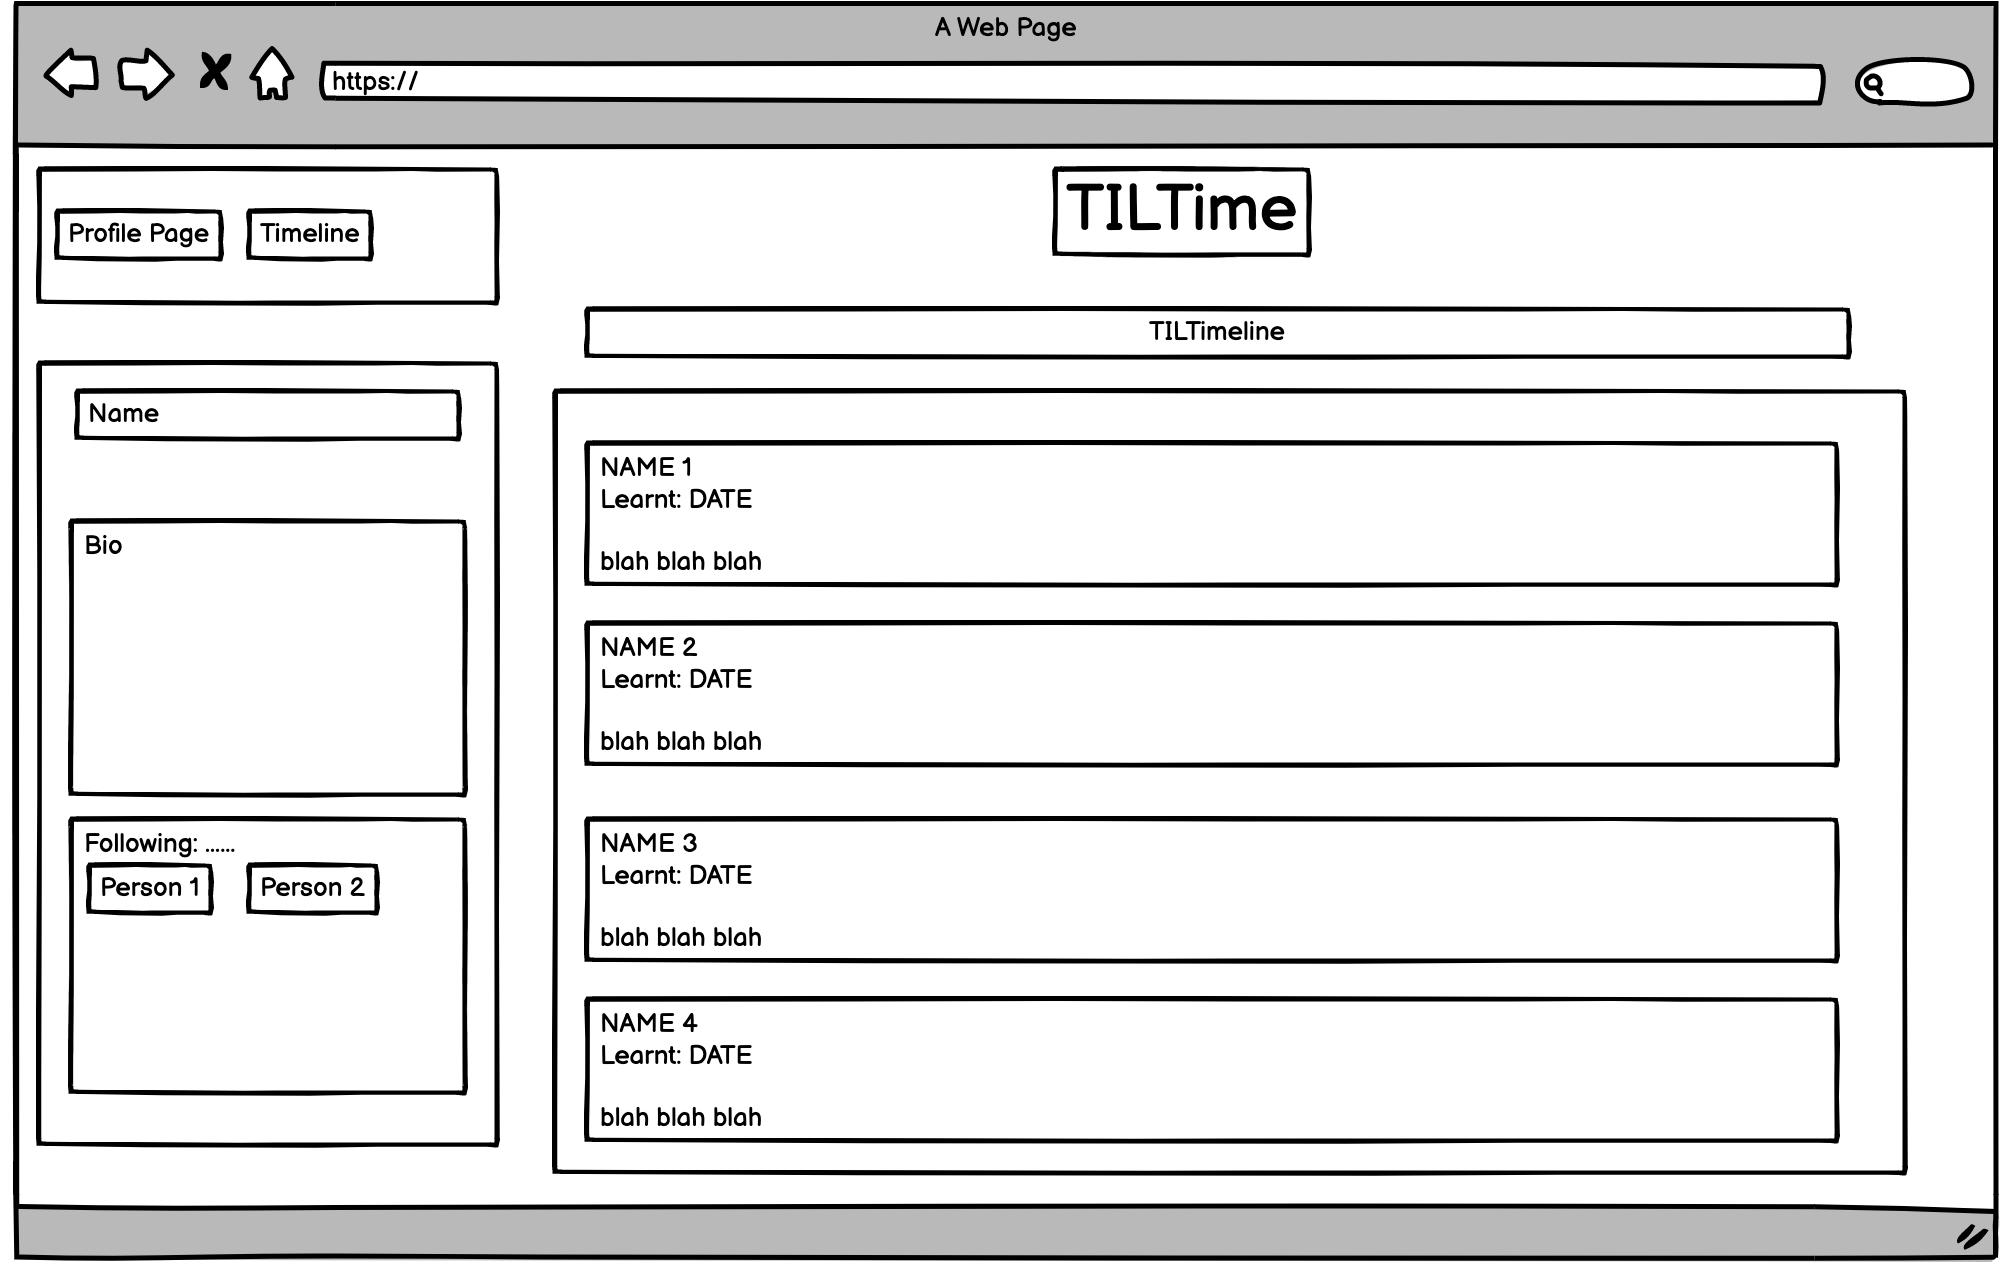
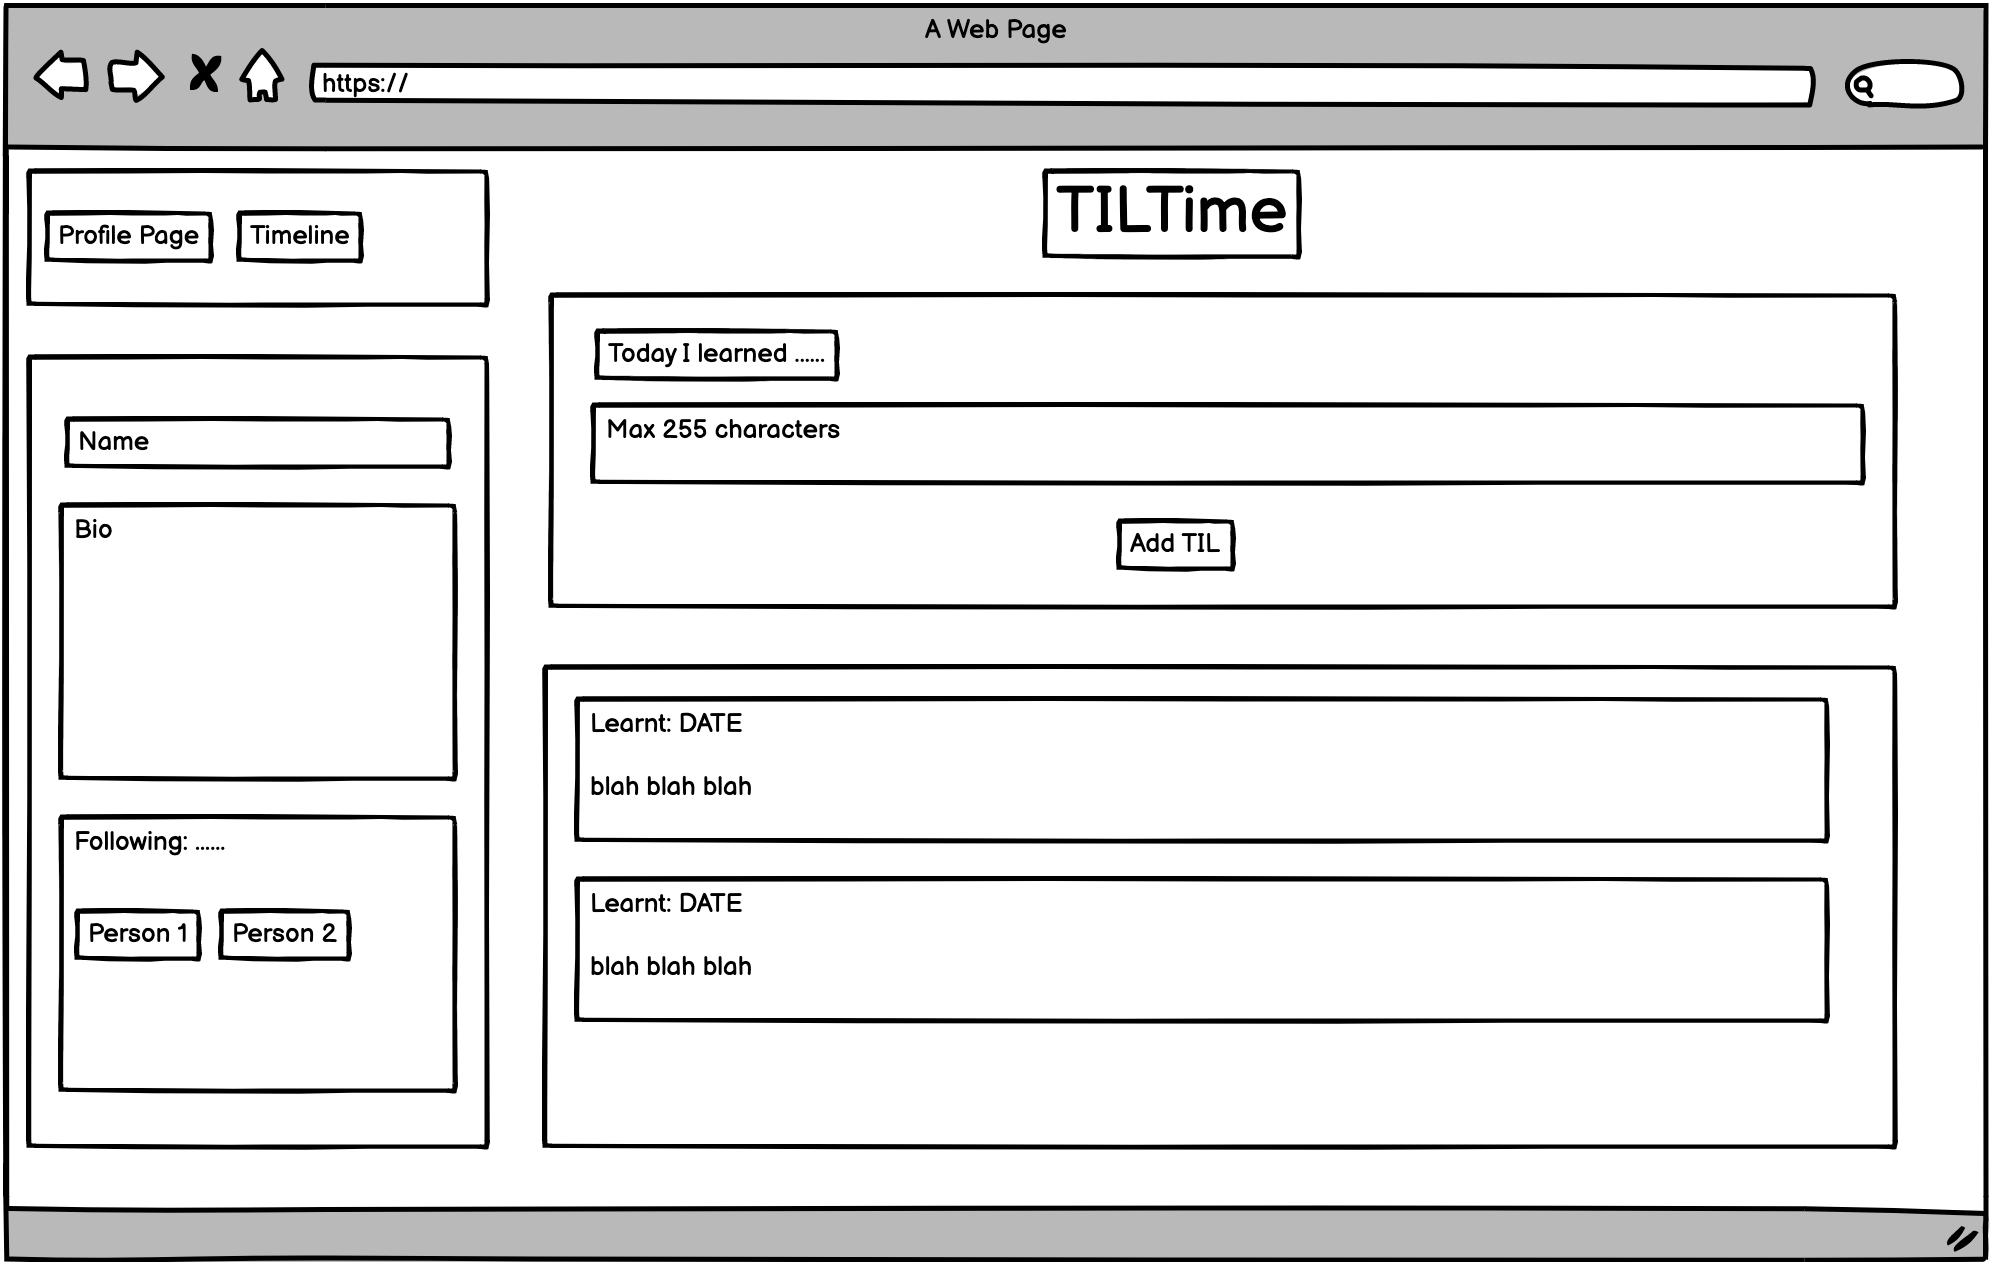
profile page started

Changed region(s): [[0.0, 0.0, 1.0, 1.0]]

diff --git a/src/components/pages/profile.js b/src/components/pages/profile.js
@@ -1,30 +1,45 @@
 import React, { Component } from 'react';
 import '../../App.css';
-import { Redirect } from 'react-router-dom';
+import {Redirect} from 'react-router-dom';
+import {NavBar} from "../navbar";
+import {Branding} from "../branding";
+import {UserInfo} from "../userInfo";
 
 class Profile extends Component {
     constructor(props) {
         super(props);
+        this.state = {profileUser: props.match.params.user};
     }
 
-    //This function makes requests runs after the component loads which will be usefull to load profile info.
-    // componentDidMount() {
-    // }
 
     render() {
-        // Use this code to redirect based on if user is logged in.
+        //Use this code to redirect based on if user is logged in.
         const isAuthenticated = localStorage.getItem('isAuthenticated');
 
-        if(isAuthenticated) {
-            return (
-                <div>
-                    <h1>Profile</h1>
-                </div>
-            )
+        if (isAuthenticated) {
+            if (this.state.profileUser === localStorage.getItem('username')) {
+                return (
+                    <div>
+                        <NavBar/>
+                        <Branding/>
+                        <UserInfo user="ownProfile"/>
+                        <p>Edit</p>
+                    </div>
+                )
+            } else {
+                return (
+                    <div>
+                        <NavBar/>
+                        <Branding/>
+                        <UserInfo user={this.state.profileUser}/>
+                        <p>Follow</p>
+                    </div>
+                )
+            }
         } else {
             return <Redirect to='/'/>
         }
     }
 }
 
-export default Profile
+export default Profile;

diff --git a/public/index.html b/public/index.html
@@ -2,19 +2,19 @@
 <html lang="en">
   <head>
     <meta charset="utf-8" />
-    <link rel="icon" href="%PUBLIC_URL%/favicon.ico" />
+    <link rel="icon" href="TILTime-favicon.png" />
+    <link rel="preconnect" href="https://fonts.gstatic.com">
+    <link href="https://fonts.googleapis.com/css2?family=Viga&display=swap" rel="stylesheet">
     <meta name="viewport" content="width=device-width, initial-scale=1" />
     <meta name="theme-color" content="#000000" />
     <meta
       name="description"
       content="Web site created using create-react-app"
     />
-    <link rel="apple-touch-icon" href="%PUBLIC_URL%/logo192.png" />
     <!--
       manifest.json provides metadata used when your web app is installed on a
       user's mobile device or desktop. See https://developers.google.com/web/fundamentals/web-app-manifest/
     -->
-    <link rel="manifest" href="%PUBLIC_URL%/manifest.json" />
     <!--
       Notice the use of %PUBLIC_URL% in the tags above.
       It will be replaced with the URL of the `public` folder during the build.
@@ -27,17 +27,6 @@
     <title>TILTime</title>
   </head>
   <body>
-    <noscript>You need to enable JavaScript to run this app.</noscript>
     <div id="root"></div>
-    <!--
-      This HTML file is a template.
-      If you open it directly in the browser, you will see an empty page.
-
-      You can add webfonts, meta tags, or analytics to this file.
-      The build step will place the bundled scripts into the <body> tag.
-
-      To begin the development, run `npm start` or `yarn start`.
-      To create a production bundle, use `npm run build` or `yarn build`.
-    -->
   </body>
 </html>

diff --git a/src/App.js b/src/App.js
@@ -11,6 +11,7 @@ class App extends Component {
 
     render()
     {
+
         return (
             //This allows you to specify a route
             //The <Switch> means it will only match one url
@@ -21,7 +22,7 @@ class App extends Component {
                         <Route exact path="/" render={(routeProps) => (<Login {...routeProps} />)}/>
                         <Route path="/register" render={(routeProps) => (<Register {...routeProps} />)}/>
                         <Route path="/timeline" render={(routeProps) => (<Timeline {...routeProps} />)}/>
-                        <Route path="/profile" render={(routeProps) => (<Profile {...routeProps} />)}/>
+                        <Route path="/profile/:user" render={(routeProps) => (<Profile {...routeProps} />)}/>
                     </Switch>
                 </div>
             </Router>

diff --git a/src/components/userInfo/index.js b/src/components/userInfo/index.js
@@ -1,0 +1,27 @@
+import React, {Component} from 'react';
+import {HeadingThree} from "../headingThree";
+import {Paragraph} from "../paragraph";
+import './index.css';
+
+export class UserInfo extends Component {
+
+    constructor(props) {
+        super(props);
+        if ( props.user === 'ownProfile') {
+            this.state =  { username: localStorage.getItem('username'), bio: localStorage.getItem('bio')}
+        } else {
+            fetch('http://localhost:3001/user/' . props.user)
+            this.state =  {username: 'no', bio: 'no'};
+        }
+    }
+
+    render() {
+        console.log(this.state)
+        return (
+            <div className="userInfo">
+                <HeadingThree name={this.state.username} />
+                <Paragraph name={this.state.bio} />
+            </div>
+        )
+    }
+}

diff --git a/src/components/navbar/index.css b/src/components/navbar/index.css
@@ -1,0 +1,23 @@
+nav {
+    display: flex;
+    justify-content: space-evenly;
+    position: fixed;
+    top: 10px;
+    left: 10px;
+    padding: 15px;
+    background-color: #31AFB4;
+    font-family: 'Viga', sans-serif;
+    width: 250px;
+    border-radius: 10px;
+}
+
+nav a {
+    padding: 0 8px;
+    text-decoration: none;
+    color: white;
+    font-size: 1.5rem;
+}
+
+nav a:hover {
+    color: #282c34;
+}

diff --git a/src/components/navbar/index.js b/src/components/navbar/index.js
@@ -1,0 +1,14 @@
+import React, {Component} from 'react';
+import {Link} from "../link";
+import './index.css';
+
+export class NavBar extends Component {
+    render() {
+        return (
+            <nav>
+                <Link link="/profile" name="Profile" />
+                <Link link="/timeline" name="Timeline" />
+            </nav>
+        )
+    }
+}

diff --git a/src/components/userInfo/index.css b/src/components/userInfo/index.css
@@ -1,0 +1,17 @@
+.userInfo {
+    position: fixed;
+    top: 100px;
+    left: 10px;
+    padding: 15px;
+    height: 80vh;
+    width: 250px;
+    background-color: #31AFB4;
+    border-radius: 10px;
+    display: flex;
+    flex-direction:column;
+}
+
+.userInfo h3 {
+    margin: 0;
+    font-size: 1.7rem;
+}

diff --git a/src/components/branding/index.js b/src/components/branding/index.js
@@ -1,0 +1,11 @@
+import React, {Component} from 'react';
+import './index.css';
+
+
+export class Branding extends Component {
+    render() {
+        return (
+            <img src="/images/TILTime-logo.png" alt="tiltime logo" />
+        )
+    }
+}

diff --git a/src/components/link/index.js b/src/components/link/index.js
@@ -1,0 +1,10 @@
+import React, {Component} from 'react';
+
+
+export class Link extends Component {
+    render() {
+        return (
+            <a href={this.props.link}>{this.props.name}</a>
+        )
+    }
+}

diff --git a/src/components/headingThree/index.js b/src/components/headingThree/index.js
@@ -1,0 +1,10 @@
+import React, {Component} from 'react';
+
+
+export class HeadingThree extends Component {
+    render() {
+        return (
+            <h3>{this.props.name}</h3>
+        )
+    }
+}

diff --git a/src/components/paragraph/index.js b/src/components/paragraph/index.js
@@ -1,0 +1,10 @@
+import React, {Component} from 'react';
+
+
+export class Paragraph extends Component {
+    render() {
+        return (
+            <p>{this.props.name}</p>
+        )
+    }
+}

diff --git a/src/components/branding/index.css b/src/components/branding/index.css
@@ -1,0 +1,6 @@
+img {
+    height: 135px;
+    width: 365px;
+    position: fixed;
+    left: 50%;
+}
